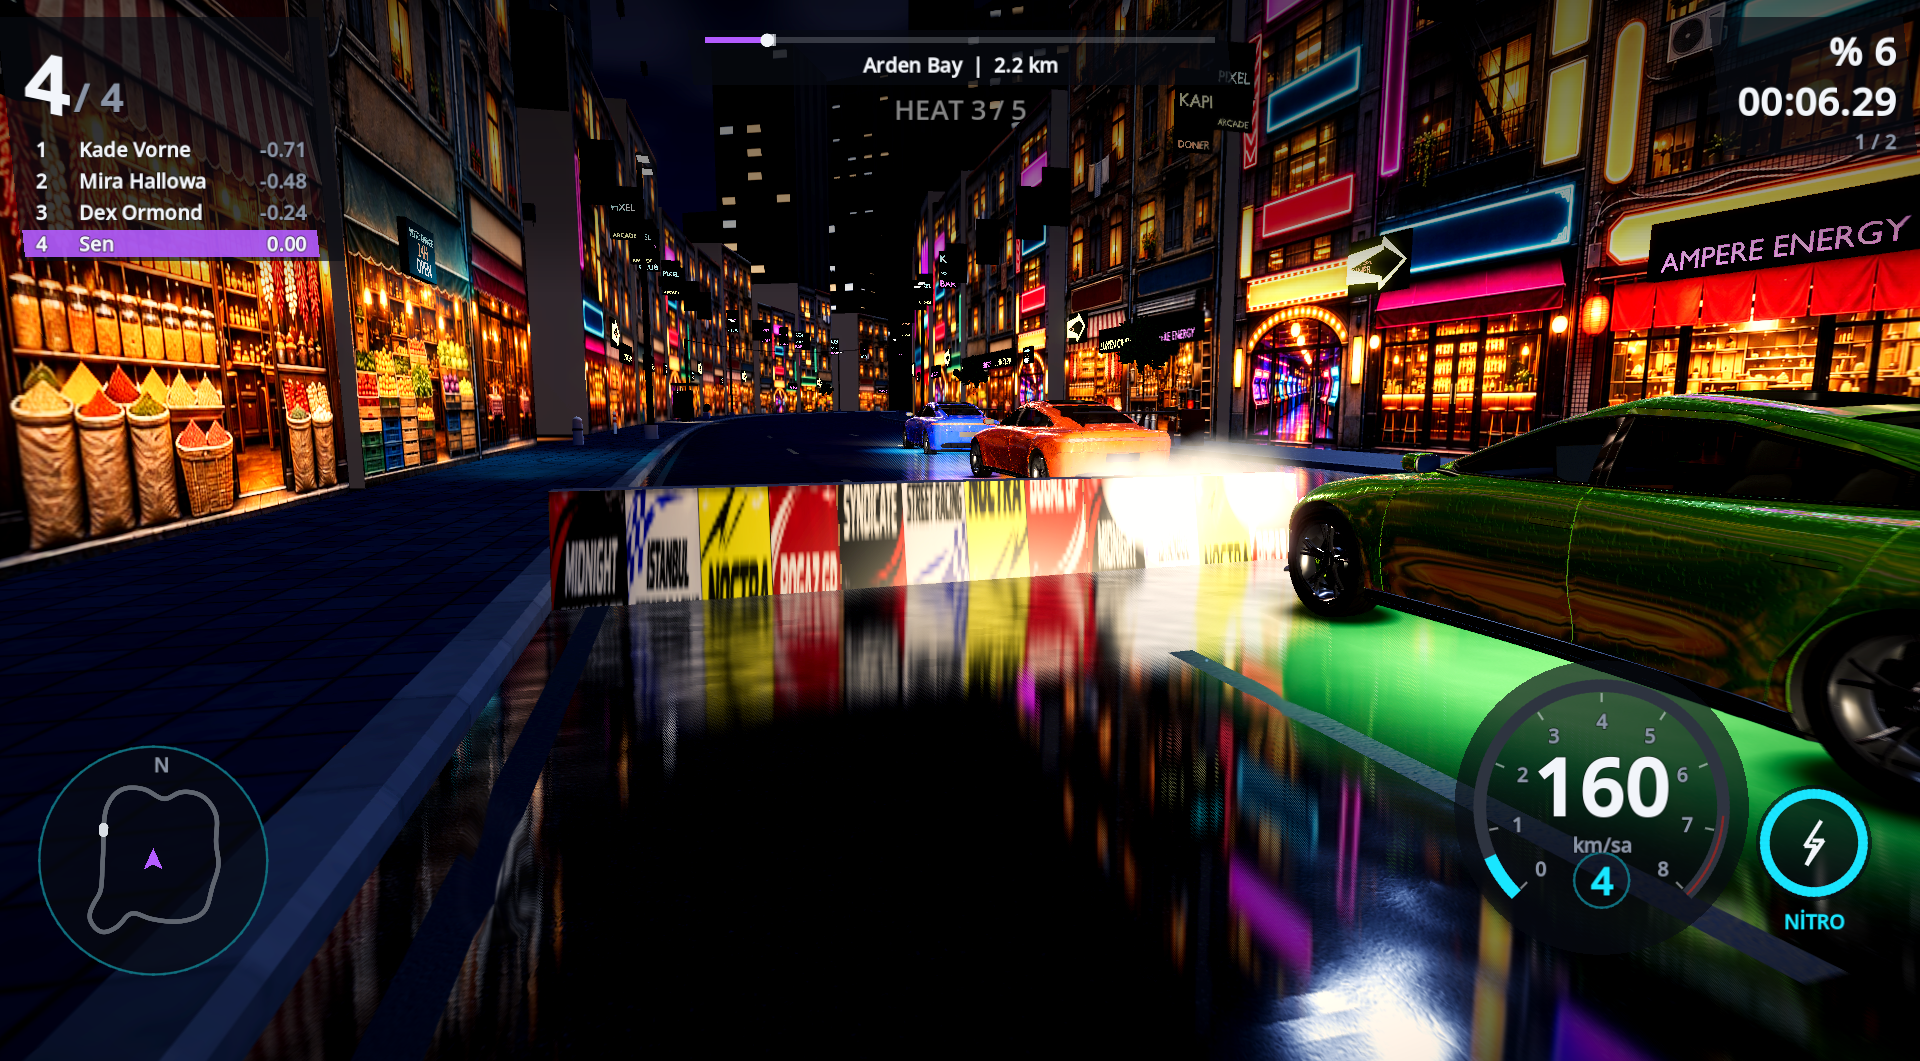
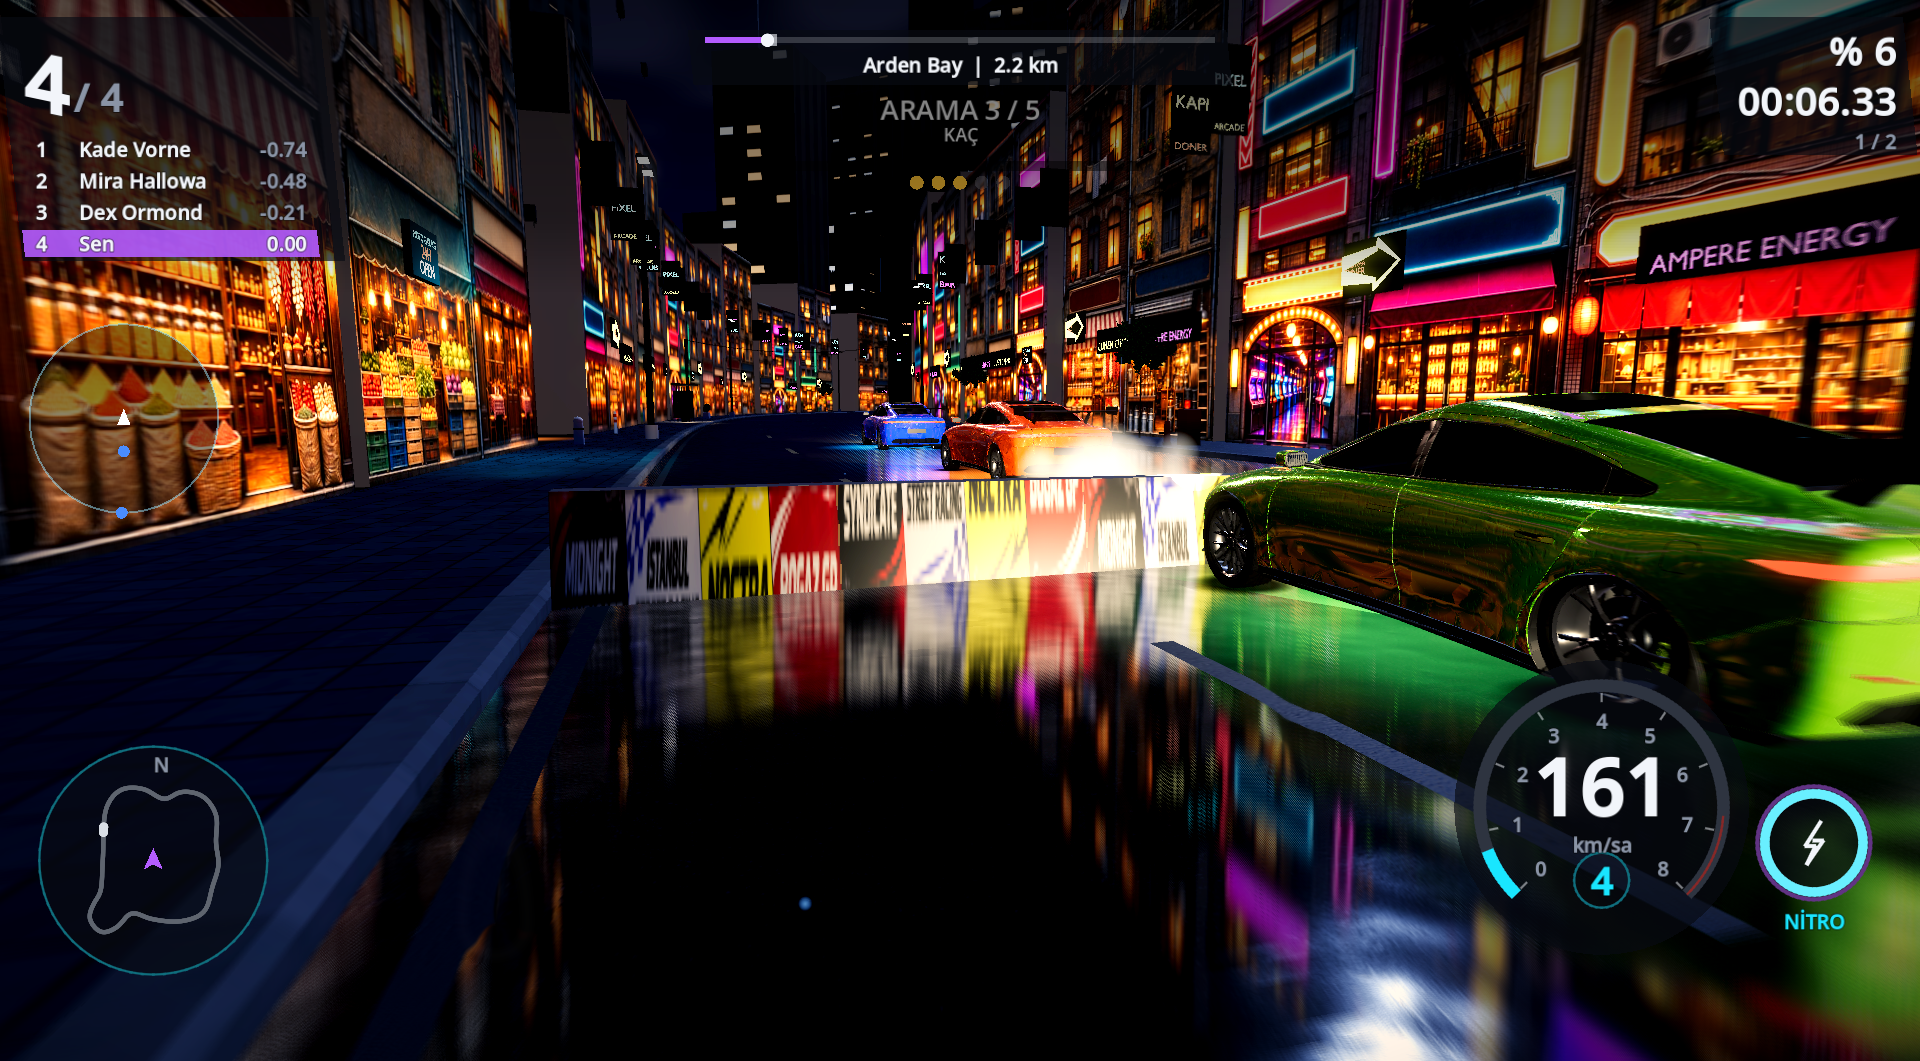
Pursuit: capture evidence (heat 1, heat 3 roadblock, heat 5, real escape, bust) and doc update
- evidence/screens/pursuit_demo: six real renders with JSON sidecars, looked at before commit.
  pursuit_escape is a real escape (ESCAPED, reward 1000). pursuit_heat_5 and pursuit_bust are state-forced and labelled as such in the doc.
- evidence/screens/before_after_pursuit: BEFORE (base 0e37938) | AFTER sheets for the three shots that exist on both sides.
- PURSUIT_MODE.md: evidence list, forced-state notes, phone capture and siren as not done.

diff --git a/docs/design/PURSUIT_MODE.md b/docs/design/PURSUIT_MODE.md
@@ -67,5 +67,16 @@ Not done in this package (owner decisions or later work):
 - Hiding spots and side streets with faster cooldown: not built. The tracks have no side-street data for this.
 - Siren audio: no siren sound exists in the repo, and no download is allowed. The light bar is the only cue.
 - Boxing or ramming at higher heat: police still only chase and use the bust rule; no ramming force is applied.
-- Survive and escape event payouts are the heat rule (200 cash per heat level), not the event `mult` used on the select preview.
-- Real bust captured in play: not captured. The bust shot uses the banner set directly.
+- Escape payout now uses the event `mult` (fixed in review). Pursuit race finish pay is the normal career table.
+- Real bust captured in play: not captured. The bust shot uses the banner set directly (`pm.state.phase = BUSTED`). Heat 5 is also forced (`pm.state.heat = 5`): those two shots show the HUD, not the rules reaching that state. Only the escape shot comes from the rules (police drivers switched off and moved 150 m back, the 8 s cooldown runs, ESCAPED at heat 5, reward 1000 = 200 x 5 x mult 1.0 on the demo's default config).
+- Phone size: the HUD scales with the screen, but no phone-size capture exists yet. Desktop 1920x1061 only.
+- Siren cue: not built (see above). The HUD and light bar are the only pursuit cues.
+- The before/after sheet compares base 0e37938 (no pursuit HUD) with this package. The change is in the HUD only (radar, pips, gauges). The world render is unchanged, so the sheet does not show a visual gain beyond the HUD.
+
+## Evidence (review fix)
+
+- `evidence/screens/pursuit_demo/`: pursuit_police_behind (heat 1), pursuit_roadblock and pursuit_roadblock_close (heat 3 roadblock, barriers 28 to 29 m ahead in frame), pursuit_heat_5 (forced), pursuit_escape (real rules), pursuit_bust (forced banner). PNG with JSON sidecars, 1920x1061, RTX 5060 Ti dev PC.
+- `evidence/screens/before_after_pursuit/`: BEFORE (base 0e37938, the three pre-package shots) | AFTER, JPG at half size. Only the three shots that exist on both sides.
+- Full suite on this commit: see `evidence/test_results.json` (477 tests, 0 failed).
+- Not run: GPU queue was shared with other sessions. Each capture was run once per attempt; the first run failed on a parse error in the scenario (fixed in c2ec624).
+
